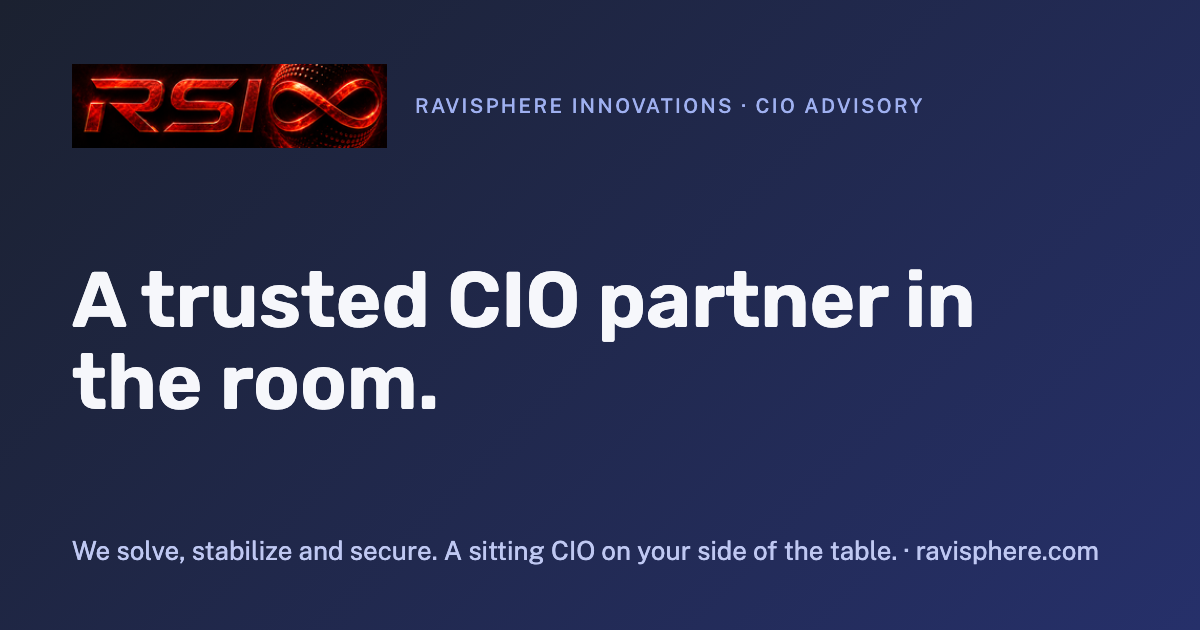
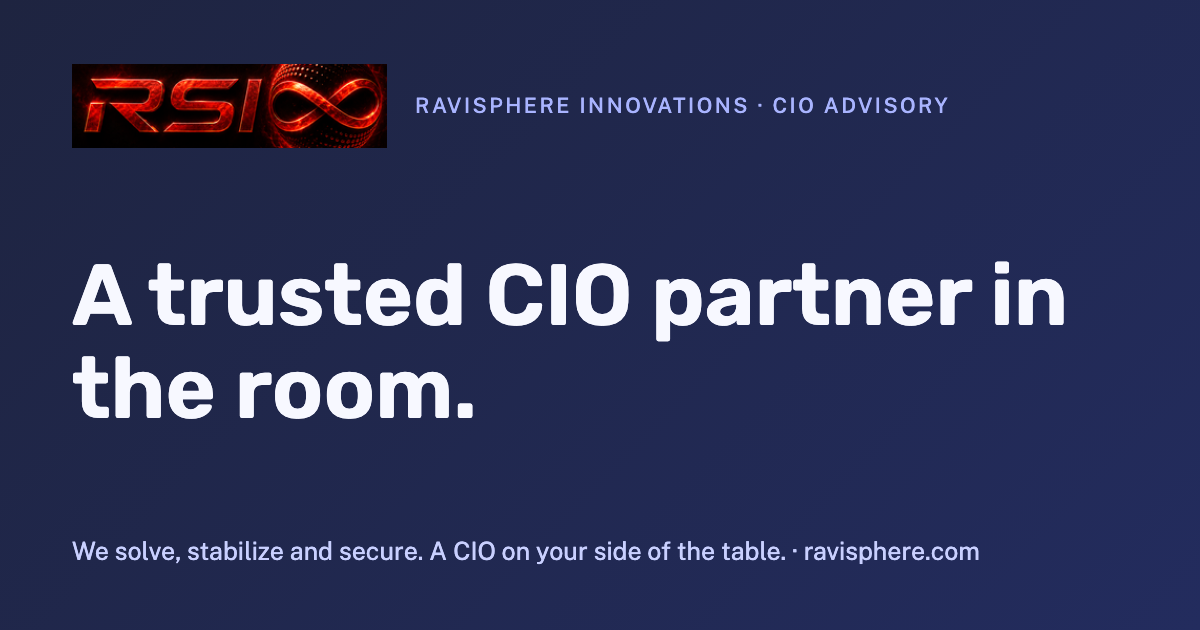
RSI home: remove current-seat and NFL references, partner wording, new link preview image
- No mention of the current CIO seat (hero, signature, bio, facts, proof list, page description)
- Removed the Limbach and Buccaneers rows and the NFL mentions
- 'Stays until it runs' / 'we leave' replaced with 'remain your trusted partner in the room, a phone call away'
- The 45% Problem guide: closing line updated
- New Open Graph / Twitter preview image without 'sitting CIO'

diff --git a/content/home.html b/content/home.html
@@ -60,23 +60,23 @@ footer{padding:28px 0 40px;color:var(--muted);font-size:13px;text-align:center}f
 <section class="hero" id="top"><div class="wrap">
 <div><span class="kicker">RaviSphere Innovations · CIO Advisory</span>
 <h1>A trusted CIO partner in the room.</h1>
-<p class="lead">Not a vendor. Not a slide deck. A sitting CIO on your side of the table who baselines what you have, competes what you pay for, fixes what is broken, and stays until it runs. We solve, stabilize and secure.</p>
+<p class="lead">Not a vendor. Not a slide deck. A CIO on your side of the table who baselines what you have, competes what you pay for, fixes what is broken, and remains your trusted partner in the room, a phone call away. We solve, stabilize and secure.</p>
 <div class="cta"><a class="btn" href="#start">Start a conversation</a><a class="btn ghost" href="the-45-problem.pdf">Read The 45% Problem</a><small>20 minutes. Options, not a pitch. <a href="https://bookings.cloud.microsoft/bookwithme/user/87e59ae0e3ae4886ab278ee7e3714d0e@ravisphere.com/meetingtype/ej4rZYpTGUKjSaJ_utrBQw2?anonymous&amp;ismsaljsauthenabled" target="_blank" rel="noopener">Book a time</a> or use the form below.</small></div></div>
 <aside class="seat"><div class="lbl">What a CIO partner means in practice</div><ul>
 <li>You get a decision, not a recommendation to hire more consultants.</li>
 <li>Contracts stay in your name. We are carrier-agnostic and vendor-agnostic.</li>
 <li>Your invoices, your vendors and your security get one accountable owner.</li>
 <li>We tell you when the answer is "do nothing."</li></ul>
-<div class="sig">Lamar Dunn, Founder &amp; Principal CIO Advisor. Sitting CIO of a public company.</div></aside>
+<div class="sig">Lamar Dunn, Founder &amp; Principal CIO Advisor.</div></aside>
 </div></section>
 
-<div class="strip"><div class="wrap"><span>In the room with</span><b>a public company</b><b>an NFL team</b><b>an NBA organization</b><b>a multi-hundred-store retailer</b><b>aging-services agencies</b></div></div>
+<div class="strip"><div class="wrap"><span>In the room with</span><b>an NBA organization</b><b>a multi-hundred-store retailer</b><b>aging-services agencies</b></div></div>
 
 <section class="block" id="what"><div class="wrap">
 <h2>What a CIO partner actually does</h2>
 <p class="sub">Six things most companies need and few have an owner for. Pick one. Most clients start with the bill or the baseline.</p>
 <div class="cards">
-<div class="card"><div class="n">1</div><h3>CIO-as-a-Service</h3><p>A fractional or interim CIO with a fixed monthly scope: the plan, the vendors, the security program and the board page, run by someone who holds the same job elsewhere.</p></div>
+<div class="card"><div class="n">1</div><h3>CIO-as-a-Service</h3><p>A fractional or interim CIO with a fixed monthly scope: the plan, the vendors, the security program and the board page, run by someone who has sat in the seat.</p></div>
 <div class="card"><div class="n">2</div><h3>Security Sprint &amp; Cyber Baseline</h3><p>Thirty days to a plain-language baseline: what is exposed, what is covered, what to fix first, and what to tell your insurer and your board.</p></div>
 <div class="card"><div class="n">3</div><h3>Bill Reconciliation &amp; Sourcing</h3><p>Telecom, network, phones and mobile, rebuilt line by line, then competed. The contract is yours; the savings are yours.</p></div>
 <div class="card"><div class="n">4</div><h3>Acquisition Integration (RSI Decipher™)</h3><p>Identity, tenants, email and access merged without a bad day for the people you just bought. A method built on 25 acquisitions, not a template.</p></div>
@@ -91,7 +91,7 @@ footer{padding:28px 0 40px;color:var(--muted);font-size:13px;text-align:center}f
 <div class="card"><div class="n">1</div><h3>Listen</h3><p>A 20-minute Technology Clarity Call. You bring the one decision on your desk. You leave with what we would do next.</p></div>
 <div class="card"><div class="n">2</div><h3>Baseline</h3><p>Invoices, contracts, vendors, security. Reconciled and written down in plain English. Usually ten business days.</p></div>
 <div class="card"><div class="n">3</div><h3>Fix and compete</h3><p>Contracts competed, risks closed, vendors held to the scorecard. Your name on every agreement.</p></div>
-<div class="card"><div class="n">4</div><h3>Stay in the room</h3><p>Monthly, with a fixed scope and a one-page report. We leave when it runs without us, and we say so.</p></div>
+<div class="card"><div class="n">4</div><h3>Stay in the room</h3><p>Monthly, with a fixed scope and a one-page report. We remain your trusted partner in the room, a phone call away.</p></div>
 </div></div></section>
 
 <section class="block" id="who"><div class="wrap">
@@ -104,11 +104,11 @@ footer{padding:28px 0 40px;color:var(--muted);font-size:13px;text-align:center}f
 </div></div></section>
 
 <section class="block alt" id="person"><div class="wrap"><div class="person">
-<div class="portrait"><img src="lamar_dunn.jpg" alt="Lamar Dunn"><div class="cap"><b>Lamar Dunn</b>Founder &amp; Principal CIO Advisor · Sitting CIO of a public company · Creator of RSI Decipher™</div></div>
+<div class="portrait"><img src="lamar_dunn.jpg" alt="Lamar Dunn"><div class="cap"><b>Lamar Dunn</b>Founder &amp; Principal CIO Advisor · Creator of RSI Decipher™</div></div>
 <div><span class="kicker">The person in the room</span>
-<p class="quote">"I hold the same job my clients are hiring for. That changes what I am willing to put my name on."</p>
-<p class="sub" style="margin-bottom:0">Lamar is the Chief Information Officer of a publicly traded company and the founder of RaviSphere Innovations. He has integrated 25 acquisitions, run technology for companies with hundreds of locations, and sat across the table from every major carrier and vendor on behalf of his clients. He advises an NFL team, an NBA organization, a multi-hundred-store retailer and a consortium of aging-services agencies.</p>
-<div class="facts"><div>Sitting CIO, public company</div><div>25 acquisitions integrated</div><div>Hundreds of locations under management</div><div>Carrier-agnostic, vendor-agnostic, always</div></div>
+<p class="quote">"I have sat in the seat my clients are hiring for. That changes what I am willing to put my name on."</p>
+<p class="sub" style="margin-bottom:0">Lamar is the founder of RaviSphere Innovations, an Army veteran and a former Deputy CIO at the CFTC. He has integrated 25 acquisitions, run technology for companies with hundreds of locations, and sat across the table from every major carrier and vendor on behalf of his clients. He advises an NBA organization, a multi-hundred-store retailer and a consortium of aging-services agencies.</p>
+<div class="facts"><div>Army veteran, former Deputy CIO at the CFTC</div><div>25 acquisitions integrated</div><div>Hundreds of locations under management</div><div>Carrier-agnostic, vendor-agnostic, always</div></div>
 </div></div></div></section>
 
 <section class="block" id="proof"><div class="wrap">
@@ -117,8 +117,6 @@ footer{padding:28px 0 40px;color:var(--muted);font-size:13px;text-align:center}f
 <div class="proof">
 <div class="nums"><div><div class="big">45%</div><p>of one client's monthly bill was fees and surcharges, not service</p></div><div><div class="big">25%</div><p>lower recurring cost per location after the contract was rebuilt and competed</p></div><div><div class="big">$3.2M+</div><p>difference over the five-year term</p></div><div><div class="big">83%</div><p>lower wireless cost, with more bandwidth</p></div><div class="note">One multi-site client, carrier contract rebuilt line by line, 2026. Figures from RSI's reconciled analysis.</div></div>
 <div class="names">
-<div><b>Limbach Holdings</b><span>Fractional CIO engagement, serving as interim Chief Information Officer: security sprint, organization redesign, acquisition integration</span></div>
-<div><b>Tampa Bay Buccaneers</b><span>CIO advisory: requirements and sourcing for a managed data-services partner</span></div>
 <div><b>San Antonio Spurs</b><span>Technology strategy, consulting phase: operating model and organization design</span></div>
 <div><b>Mattress Warehouse</b><span>Enterprise technology advisory: five-vendor network competition across hundreds of stores</span></div>
 <div><b>Central Alabama Aging Consortium</b><span>Vehicle-tracking and right-sized laptop programs for field staff</span></div>

diff --git a/app/layout.tsx b/app/layout.tsx
@@ -5,10 +5,10 @@ export const metadata: Metadata = {
   metadataBase: new URL("https://ravisphere.com"),
   title: "RaviSphere Innovations | A trusted CIO partner in the room",
   description:
-    "RSI puts a sitting CIO on your side of the table: bill reconciliation and sourcing, security baseline, fractional CIO, acquisition integration and vendor oversight for multi-site companies, PE portfolios and agencies.",
+    "RSI puts a CIO on your side of the table: bill reconciliation and sourcing, security baseline, fractional CIO, acquisition integration and vendor oversight for multi-site companies, PE portfolios and agencies.",
   openGraph: {
     title: "RaviSphere Innovations | A trusted CIO partner in the room",
-    description: "We solve, stabilize and secure. A sitting CIO on your side of the table.",
+    description: "We solve, stabilize and secure. A CIO on your side of the table.",
     type: "website",
     url: "https://ravisphere.com",
   },
